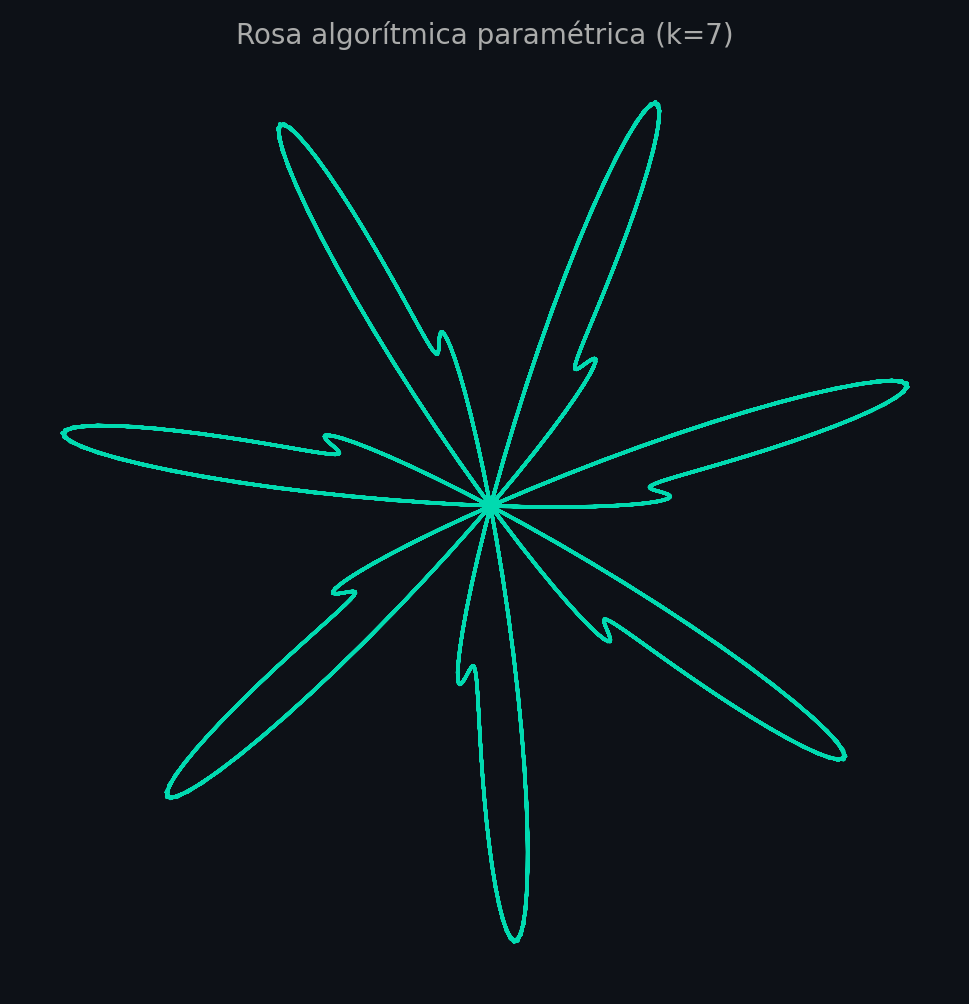
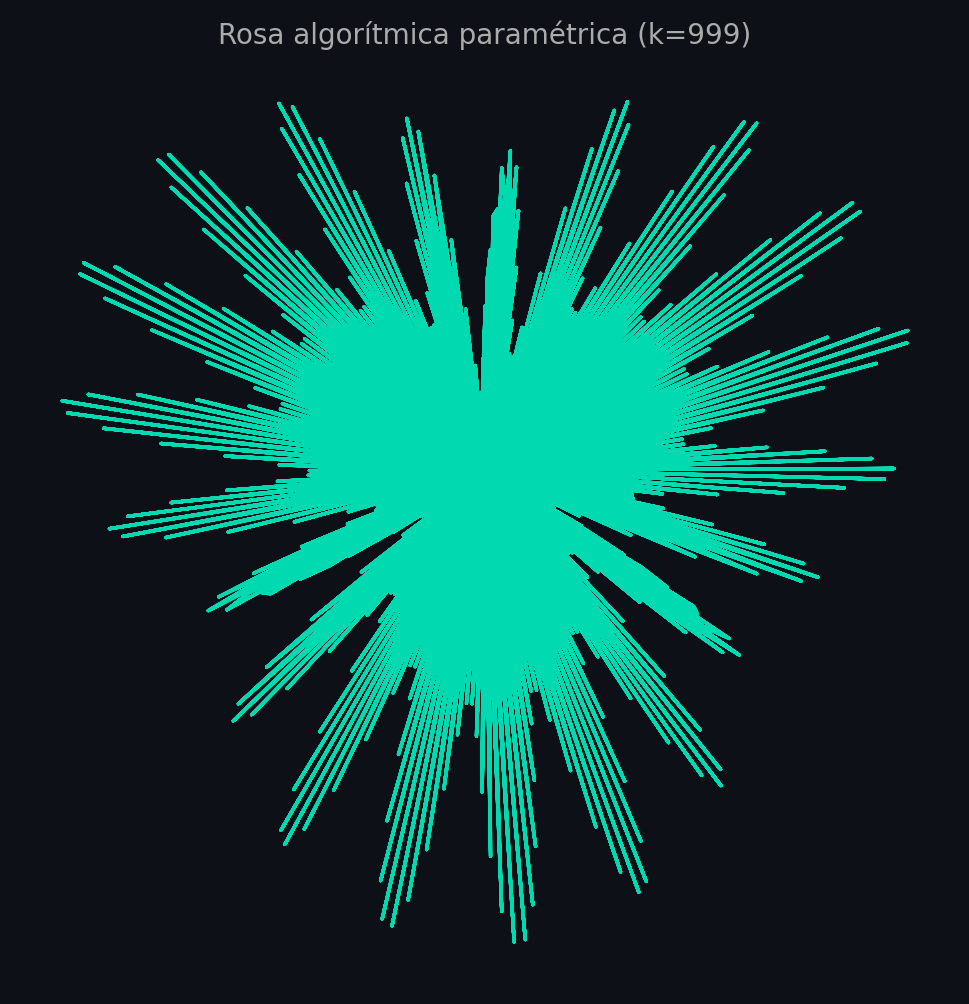
feat(arte): generar rosa paramétrica procedural y bitácora matemática

diff --git a/DIARIO_ALGORITMICO.md b/DIARIO_ALGORITMICO.md
@@ -2,5 +2,5 @@
 
 - **Autoría:** mronrom948-lang
 - **Artefacto generado:** `patron_generativo.png`
-- **Parámetros matemáticos:** Pétalos = 7, Armónicos = 21
+- **Parámetros matemáticos:** Pétalos = 999, Armónicos = 21
 - **Descripción:** Gráfico vectorial rasterizado basado en cálculo trigonométrico continuo.
